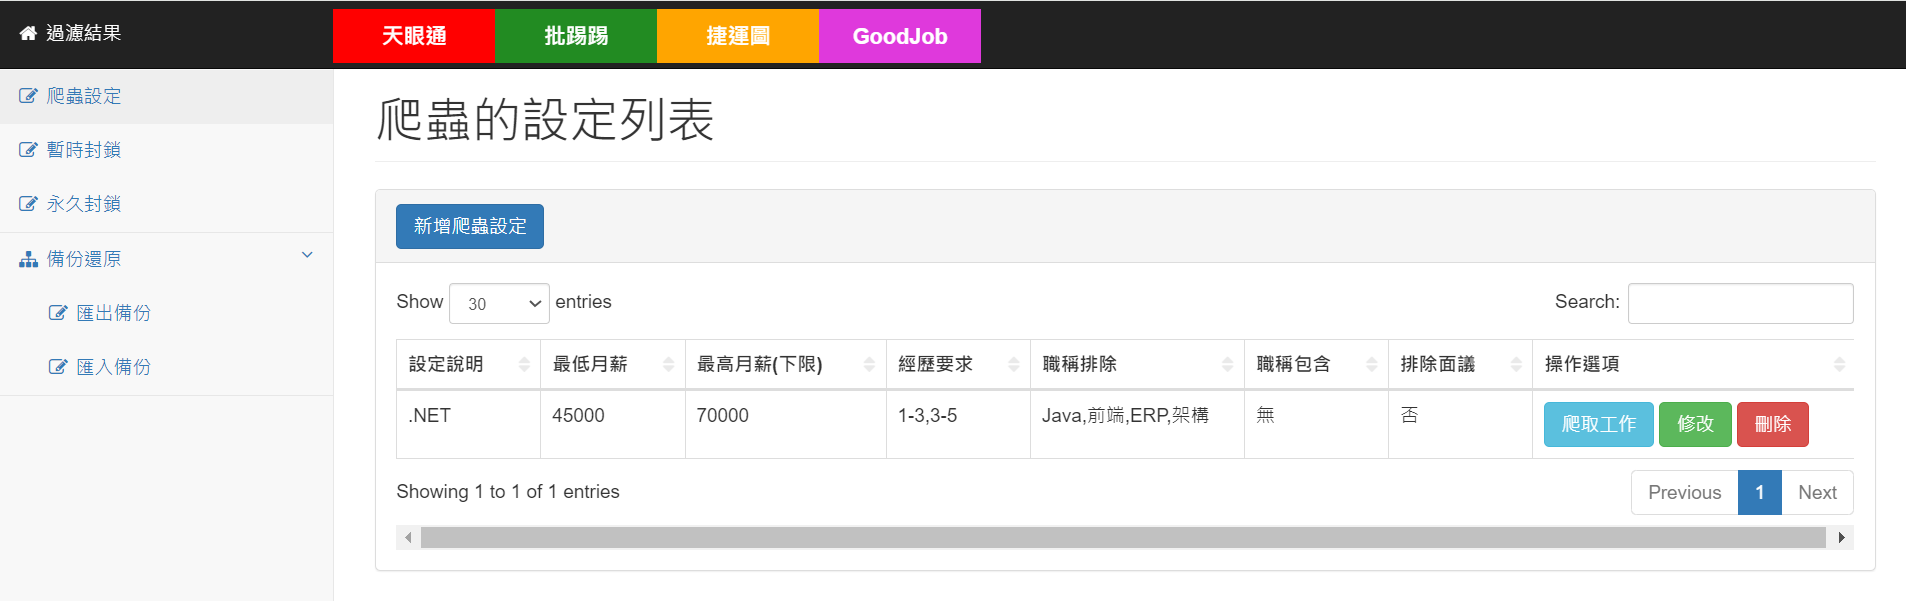
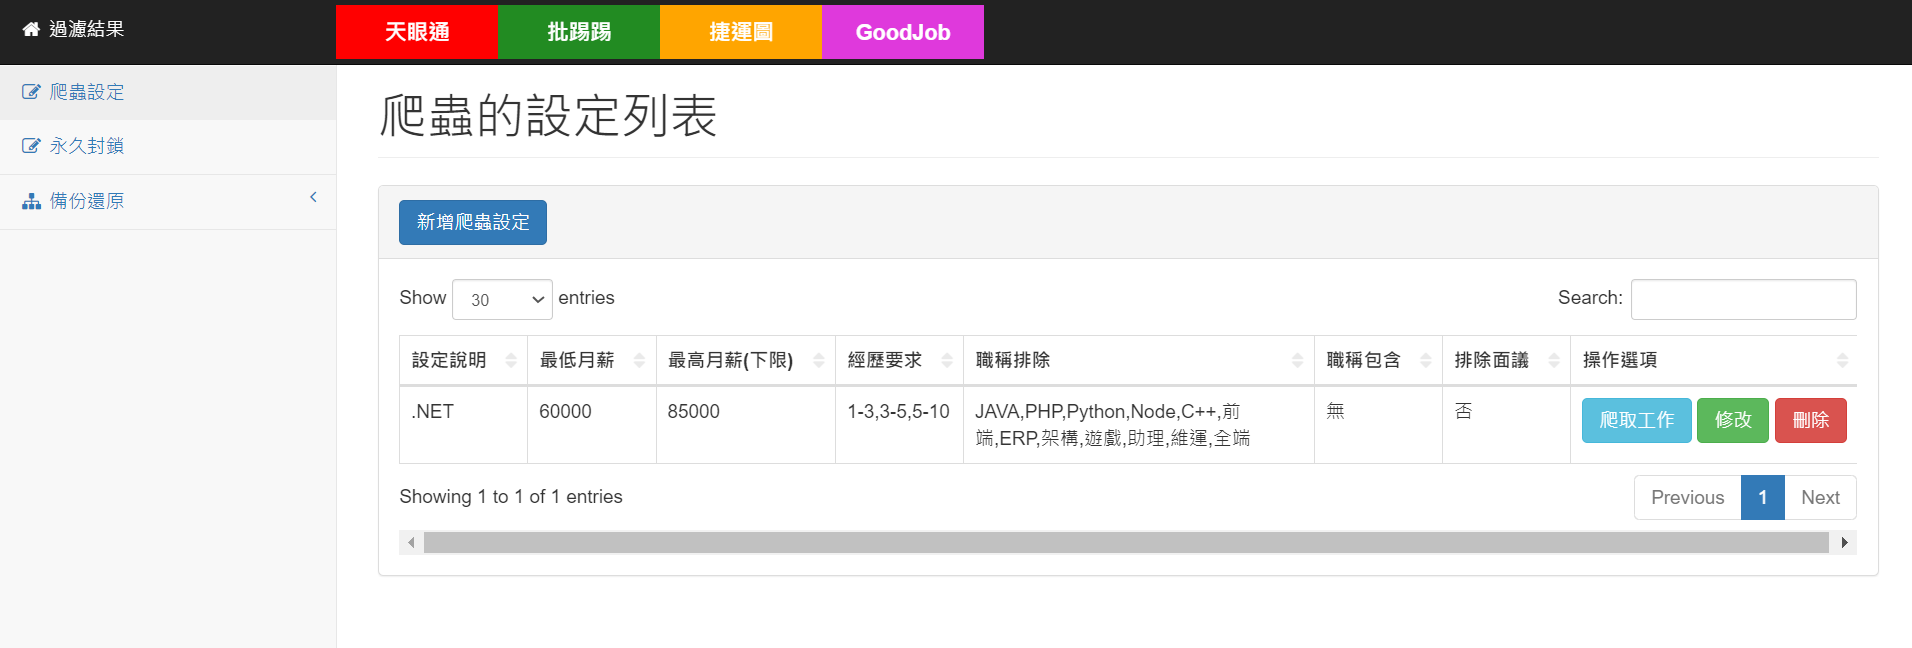
調整說明

diff --git a/README.md b/README.md
@@ -1,11 +1,5 @@
 # 專案目標  
-針對自己舊專案(網址如下) JobFilter 的爬蟲功能和操作介面進行改版。  
-https://github.com/Jacky20200711/JobFilter  
-&emsp;  
-# 改版重點  
-1.修改操作介面(練習 Bootstrap 套版)  
-2.優化操作流程(將多數的操作改用 AJAX 來避免跳頁)  
-3.優化與調整各種功能  
+簡單的工作過濾器，用來進一步過濾104的工作列表。  
 &emsp;  
 # 使用技術  
 1.使用 HttpClient 爬取網頁  
@@ -17,18 +11,18 @@ https://github.com/Jacky20200711/JobFilter
 7.使用 SweetAlert2 美化彈窗  
 &emsp;  
 # 開發環境  
-Win10(家用版) + Visual Studio 2019/2022 + .NET Core 3.1 MVC + SQL Server 2014 Express  
+Win11 + Visual Studio 2022 + .NET Core MVC + SQL Server 2014 Express  
 &emsp;  
 # 安裝套件  
 dotnet add package Microsoft.AspNetCore.Session --version 2.2.0  
-dotnet add package Microsoft.EntityFrameworkCore.SqlServer --version 5.0.7  
-dotnet add package Microsoft.EntityFrameworkCore.Tools --version 5.0.7  
+dotnet add package Microsoft.EntityFrameworkCore.SqlServer --version 8.0.2  
+dotnet add package Microsoft.EntityFrameworkCore.Tools --version 8.0.2  
 dotnet add package AngleSharp --version 0.16.0  
 dotnet add package CsvHelper --version 27.1.1  
 dotnet add package NLog --version 4.7.10  
 dotnet add package NLog.Web.AspNetCore --version 4.13.0-readme-preview  
 &emsp;  
-# 網站首頁(爬蟲列表)  
+# 網站首頁(爬蟲設定列表)  
 ![image](https://github.com/Jacky20200711/JobFilter2/blob/master/DEMO_01.png?raw=true)  
 &emsp;   
 # 新增/修改爬蟲設定  
@@ -44,6 +38,6 @@ dotnet add package NLog.Web.AspNetCore --version 4.13.0-readme-preview
 會自動以公司名稱到天眼通、goodjob、面試趣做搜尋，並開啟對應的分頁。  
 &emsp;  
 # 點選[公司地址的超連結]  
-會開啟 Google map 的分頁，並且自動定位到公司地址。  
+會開啟 Google 地圖的分頁，並定位到公司地址。  
 &emsp;  
 
